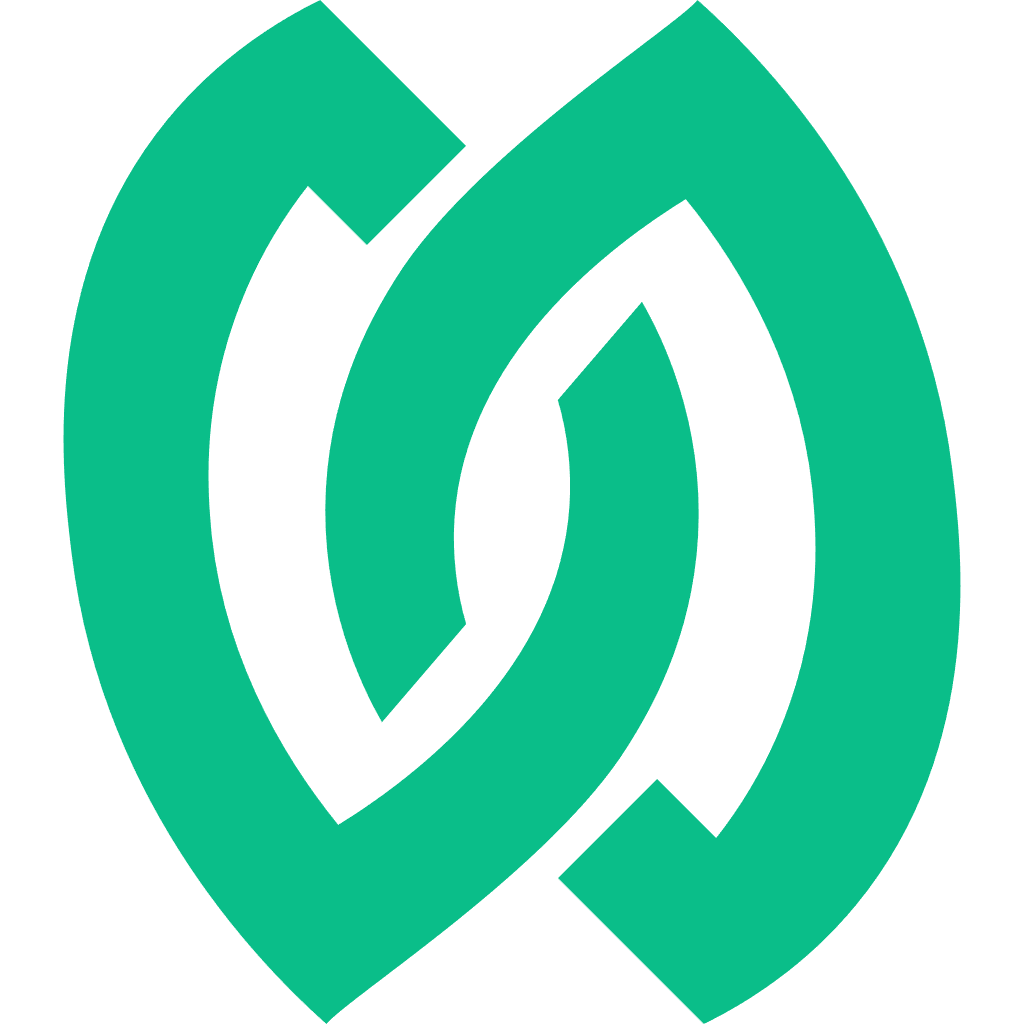
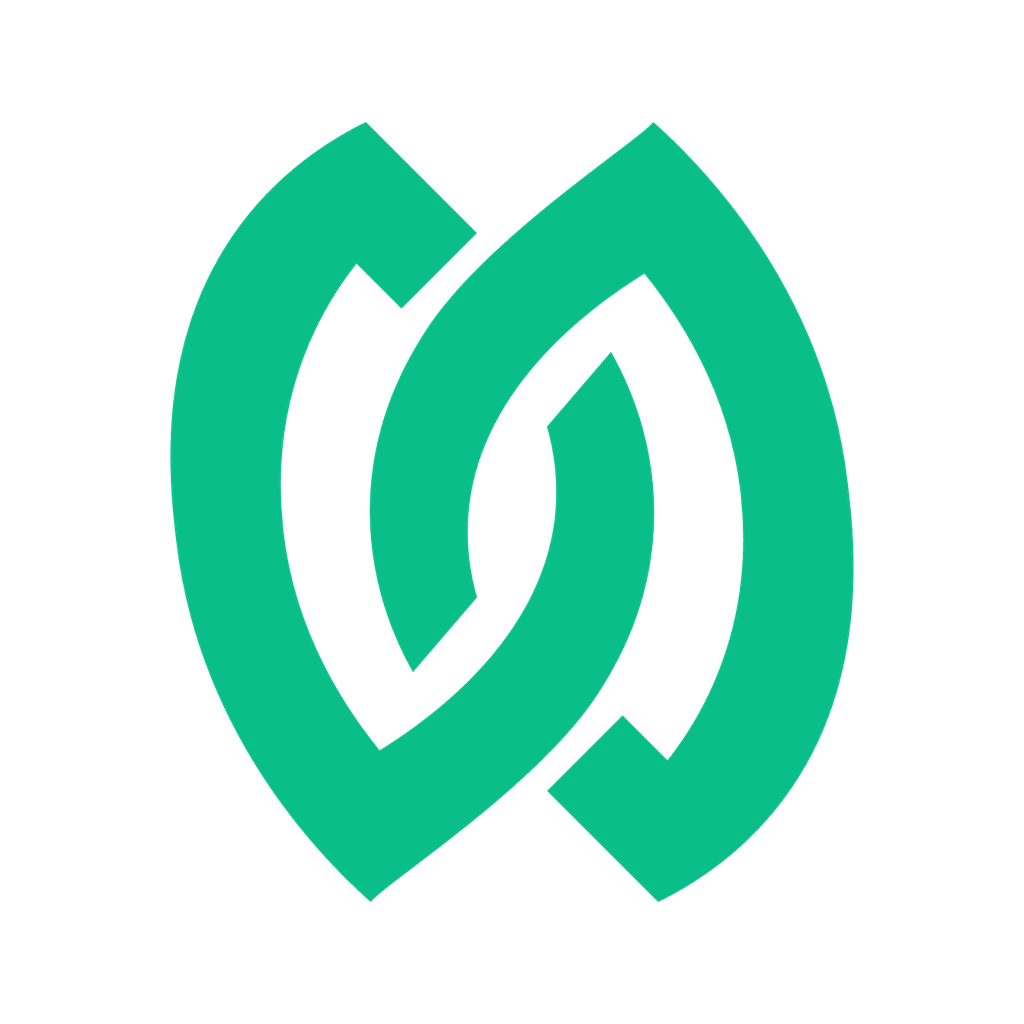
fix: 修复图标边框

diff --git a/add_padding.py b/add_padding.py
@@ -1,0 +1,26 @@
+"""临时脚本：给 icon.png 添加边距（缩小内容，四周留白）"""
+from PIL import Image
+
+SRC = "Qt/resource/img/icon.png"
+OUT = "Qt/resource/img/icon.png"  # 直接覆盖原文件
+
+# 边距占比（每边 12%），可调整
+PADDING_RATIO = 0.12
+
+img = Image.open(SRC).convert("RGBA")
+w, h = img.size
+
+pad = int(min(w, h) * PADDING_RATIO)
+inner_w = w - 2 * pad
+inner_h = h - 2 * pad
+
+# 缩小原图内容
+shrunk = img.resize((inner_w, inner_h), Image.LANCZOS)
+
+# 创建同尺寸透明画布，将缩小后的内容居中放置
+canvas = Image.new("RGBA", (w, h), (0, 0, 0, 0))
+canvas.paste(shrunk, (pad, pad))
+
+canvas.save(OUT)
+print(f"Done: {w}x{h}, padding={pad}px ({PADDING_RATIO:.0%} each side)")
+print(f"Saved to {OUT}")
